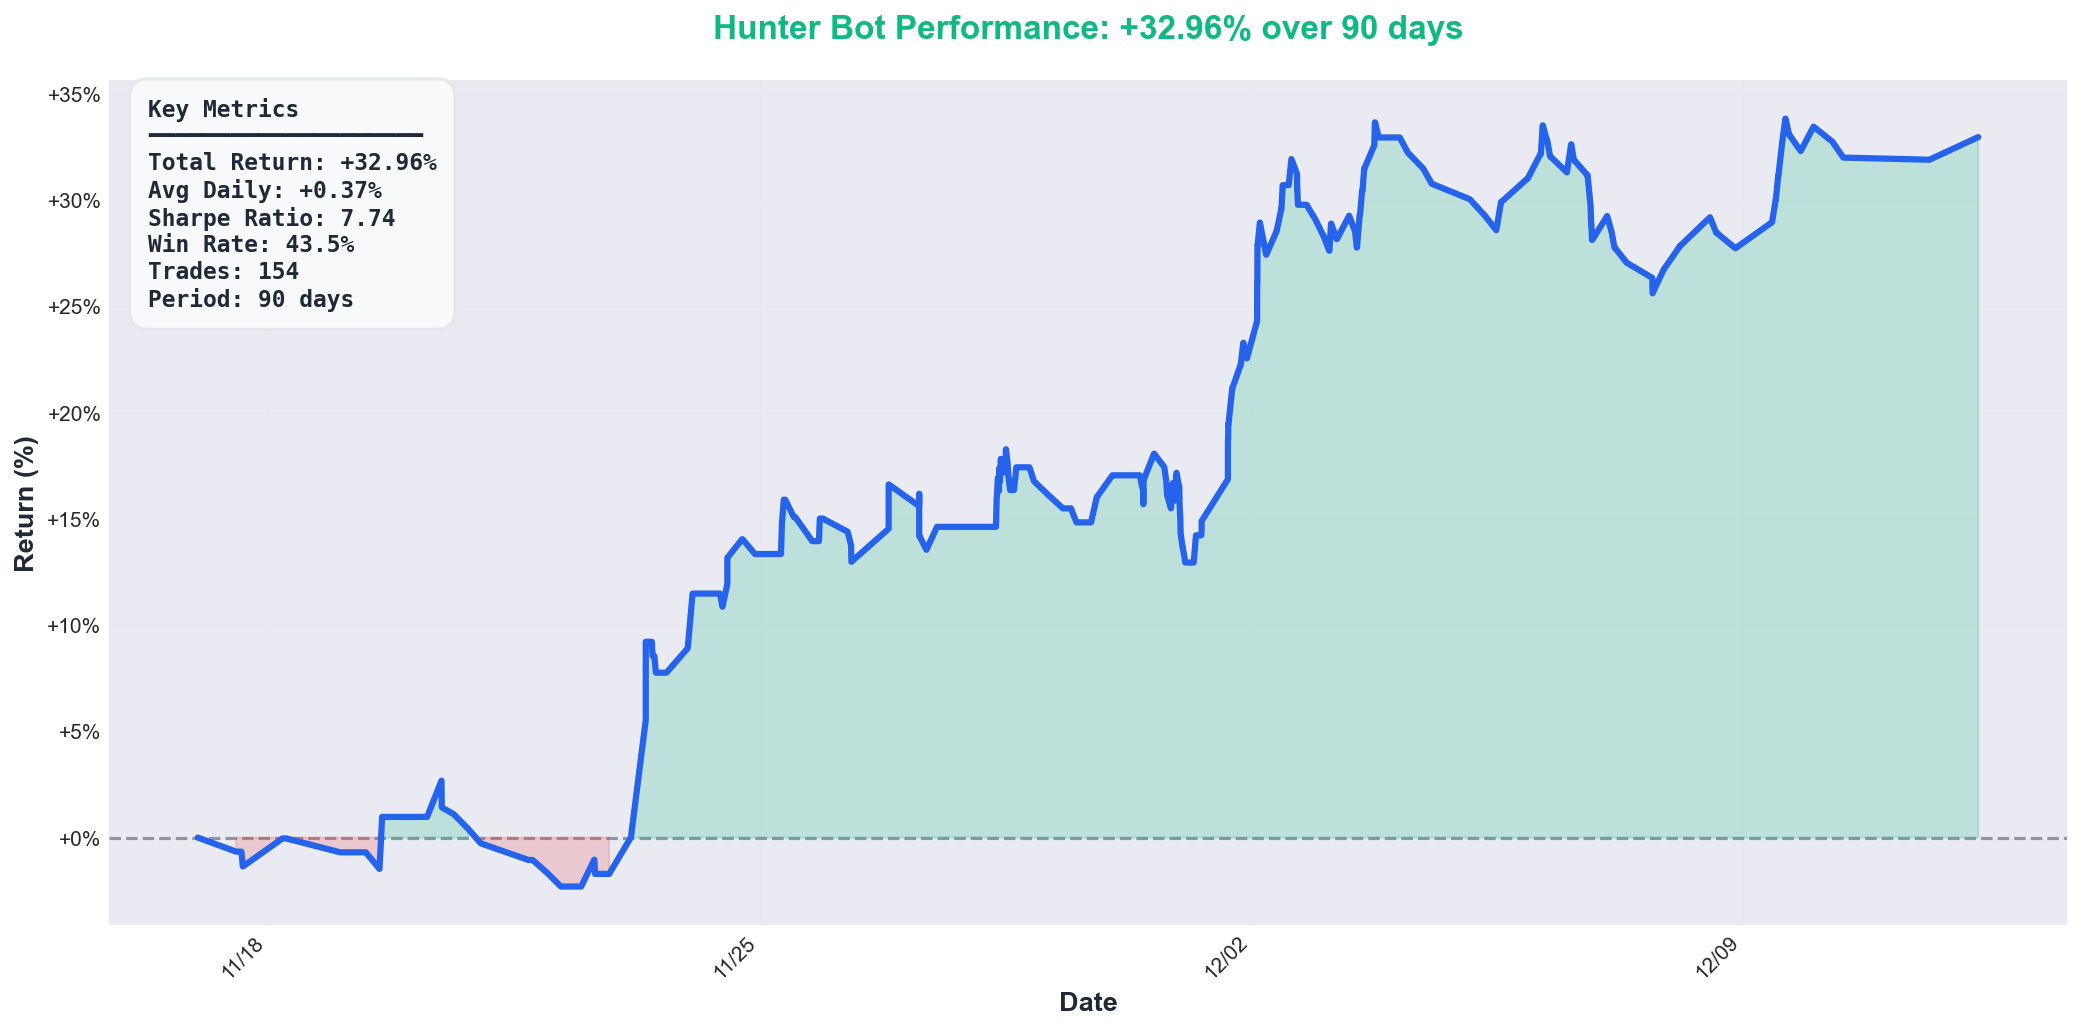
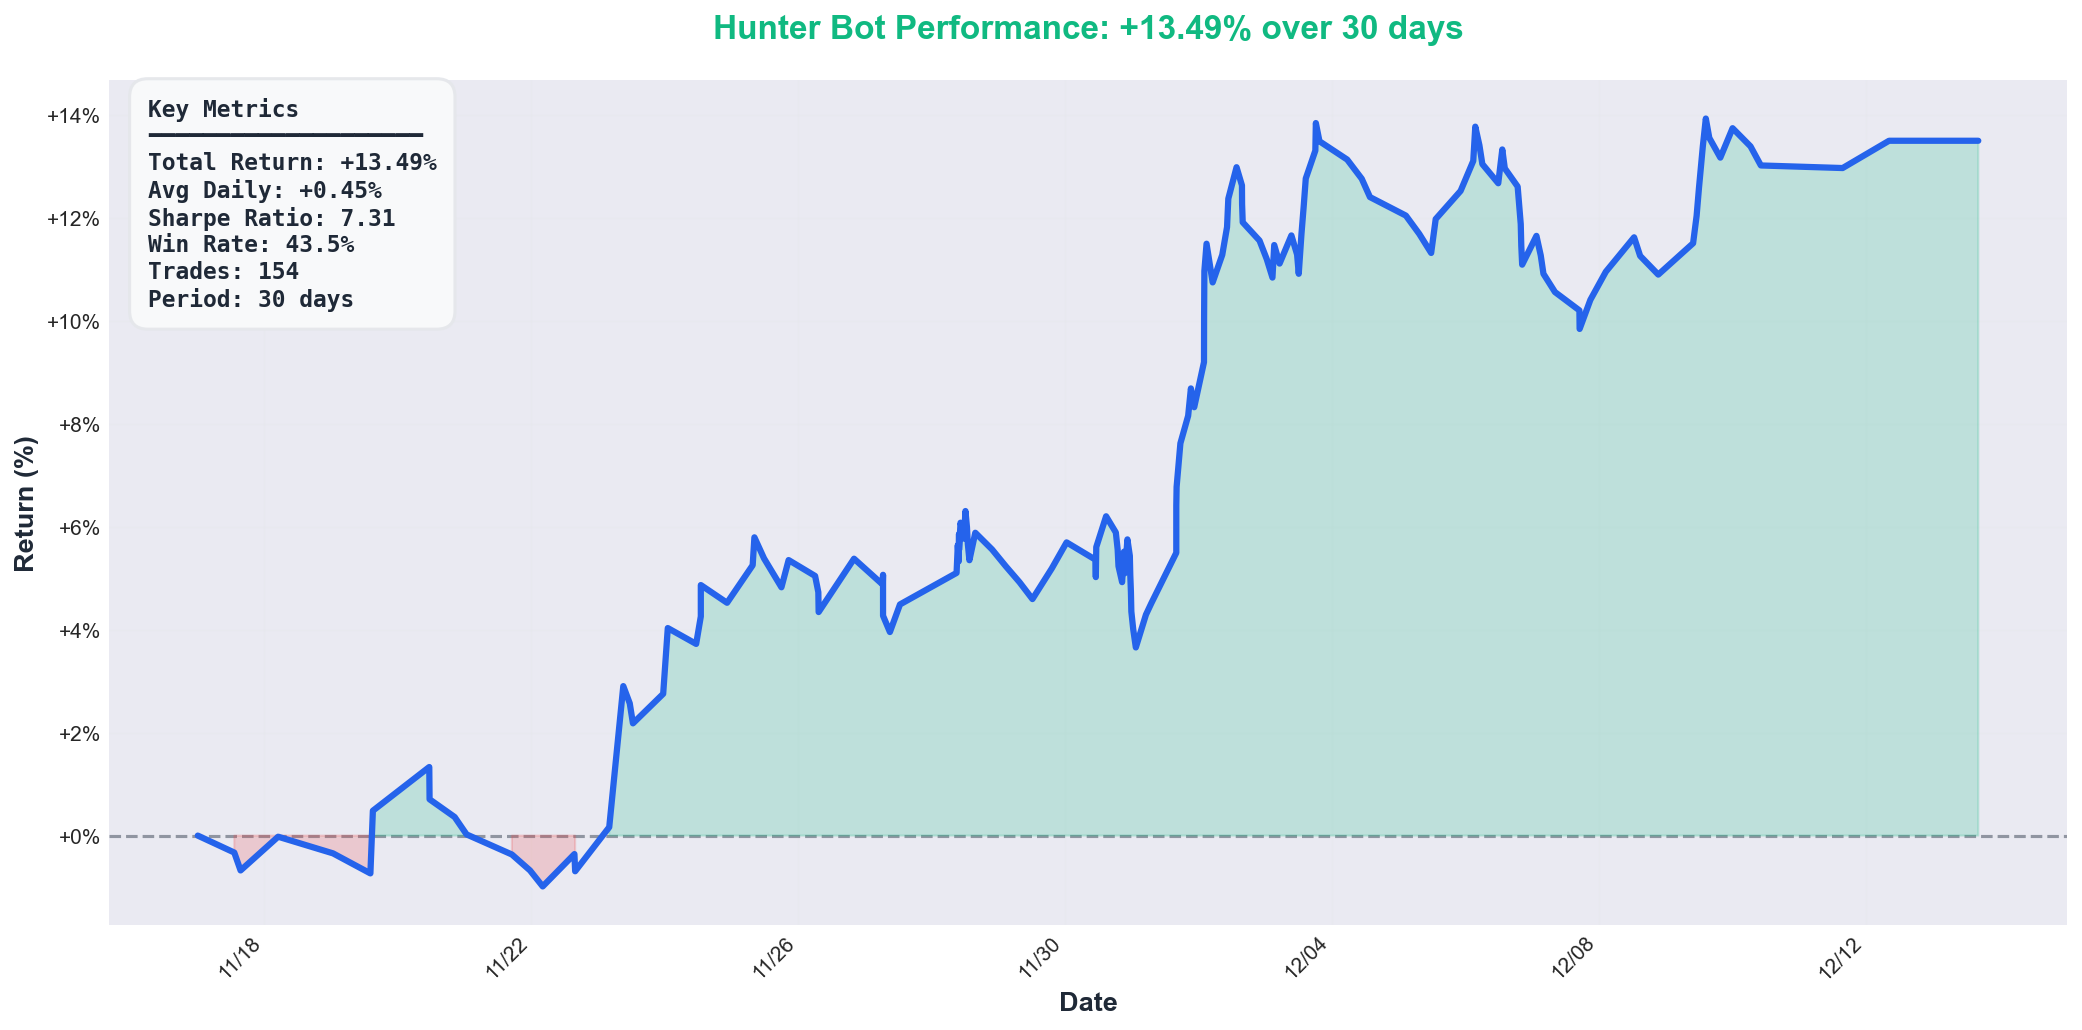
Use only trade_log.csv for consistency across all performance calculations
- Remove dependency on performance_data.json in plot_wallet_value.py
- Now both calculate_sharpe_r2.py and plot_wallet_value.py use only trade_log.csv
- Ensures consistent Sharpe ratio calculations between scripts
- Simplifies data source management and reduces potential discrepancies
- Regenerated performance_chart.png with updated data source

diff --git a/scripts/plot_wallet_value.py b/scripts/plot_wallet_value.py
@@ -116,10 +116,10 @@ def estimate_position_size_from_trades(trades):
 
 def calculate_wallet_value_over_time(days=5, initial_wallet_usd=None):
     """Calculate wallet value over time from trades"""
-    data = load_performance_data()
+    # Use only trade_log.csv for consistency with calculate_sharpe_r2.py
     trade_log = load_trade_log()
     
-    if not data and not trade_log:
+    if not trade_log:
         print("No trade data available")
         return None
     
@@ -131,19 +131,7 @@ def calculate_wallet_value_over_time(days=5, initial_wallet_usd=None):
     # This prevents showing empty days before trading actually started
     earliest_trade_date = None
     
-    # Check performance data
-    all_trades = data.get('trades', []) if data else []
-    for trade in all_trades:
-        try:
-            entry_time_str = trade.get('entry_time', '')
-            if entry_time_str:
-                entry_time = datetime.fromisoformat(entry_time_str.replace('Z', '+00:00').split('.')[0])
-                if earliest_trade_date is None or entry_time < earliest_trade_date:
-                    earliest_trade_date = entry_time
-        except Exception:
-            continue
-    
-    # Check trade log
+    # Check trade log for earliest date
     for trade in trade_log:
         if trade.get('timestamp'):
             if earliest_trade_date is None or trade['timestamp'] < earliest_trade_date:
@@ -157,65 +145,21 @@ def calculate_wallet_value_over_time(days=5, initial_wallet_usd=None):
     start_date = max(start_date, min_date)
     
     # Filter trades within date range
-    recent_trades = []
-    for trade in all_trades:
-        try:
-            entry_time_str = trade.get('entry_time', '')
-            if not entry_time_str:
-                continue
-            
-            # Parse entry time
-            entry_time = datetime.fromisoformat(entry_time_str.replace('Z', '+00:00').split('.')[0])
-            
-            if entry_time >= start_date:
-                recent_trades.append({
-                    'entry_time': entry_time,
-                    'exit_time': datetime.fromisoformat(trade.get('exit_time', today.isoformat()).replace('Z', '+00:00').split('.')[0]) if trade.get('exit_time') else None,
-                    'position_size_usd': trade.get('position_size_usd', 0) or 0,
-                    'pnl_usd': trade.get('pnl_usd'),
-                    'pnl_percent': trade.get('pnl_percent'),
-                    'status': trade.get('status', 'open'),
-                    'symbol': trade.get('symbol', 'UNKNOWN')
-                })
-        except Exception as e:
-            continue
-    
-    # Also process trade log for more granular data
     recent_log_trades = [t for t in trade_log if t['timestamp'] >= start_date]
     
-    # Estimate average position size
-    avg_position_size = estimate_position_size_from_trades(recent_trades)
-    if not recent_trades:
-        avg_position_size = 13.2  # Default
+    # Estimate average position size (use default since trade_log doesn't have position_size_usd)
+    # This matches the default used in calculate_sharpe_r2.py
+    avg_position_size = 13.2  # Default estimate based on config
     
     # Estimate initial wallet value if not provided
     if initial_wallet_usd is None:
-        # Try to estimate from open positions and recent trades
-        open_positions_value = sum([t['position_size_usd'] for t in recent_trades if t['status'] == 'open'])
-        
-        # Sum all closed trade PnL
-        closed_pnl = sum([t.get('pnl_usd', 0) or 0 for t in recent_trades if t.get('pnl_usd') is not None and t['status'] != 'open'])
-        
-        # Estimate: current wallet = open positions + cash - closed PnL losses
-        # Reverse engineer: if we know current open positions, we can estimate starting
-        # But we'll use a simpler approach: estimate from position sizes
-        initial_wallet_usd = 300.0  # Default starting value (user mentioned $300 earlier)
+        initial_wallet_usd = 300.0  # Default starting value
     
     # Create time series of wallet value changes
     # Collect all trade events (entries and exits)
     events = []
     
-    # Process closed trades from performance data
-    for trade in recent_trades:
-        if trade.get('exit_time') and trade.get('pnl_usd') is not None:
-            events.append({
-                'time': trade['exit_time'],
-                'pnl_usd': trade.get('pnl_usd', 0) or 0,
-                'type': 'exit',
-                'symbol': trade.get('symbol', 'UNKNOWN')
-            })
-    
-    # Process trade log entries (more granular)
+    # Process trade log entries
     for trade in recent_log_trades:
         pnl_usd = (trade['pnl_pct'] / 100) * avg_position_size
         events.append({
@@ -261,10 +205,9 @@ def calculate_wallet_value_over_time(days=5, initial_wallet_usd=None):
             current_detailed += event['pnl_usd']
             detailed_wallet_values.append(current_detailed)
     
-    # Add current time if we have open positions
-    if any(t['status'] == 'open' for t in recent_trades):
-        detailed_time_points.append(today)
-        detailed_wallet_values.append(current_detailed)
+    # Add current time point
+    detailed_time_points.append(today)
+    detailed_wallet_values.append(current_detailed)
     
     return {
         'daily_time_points': time_points,
